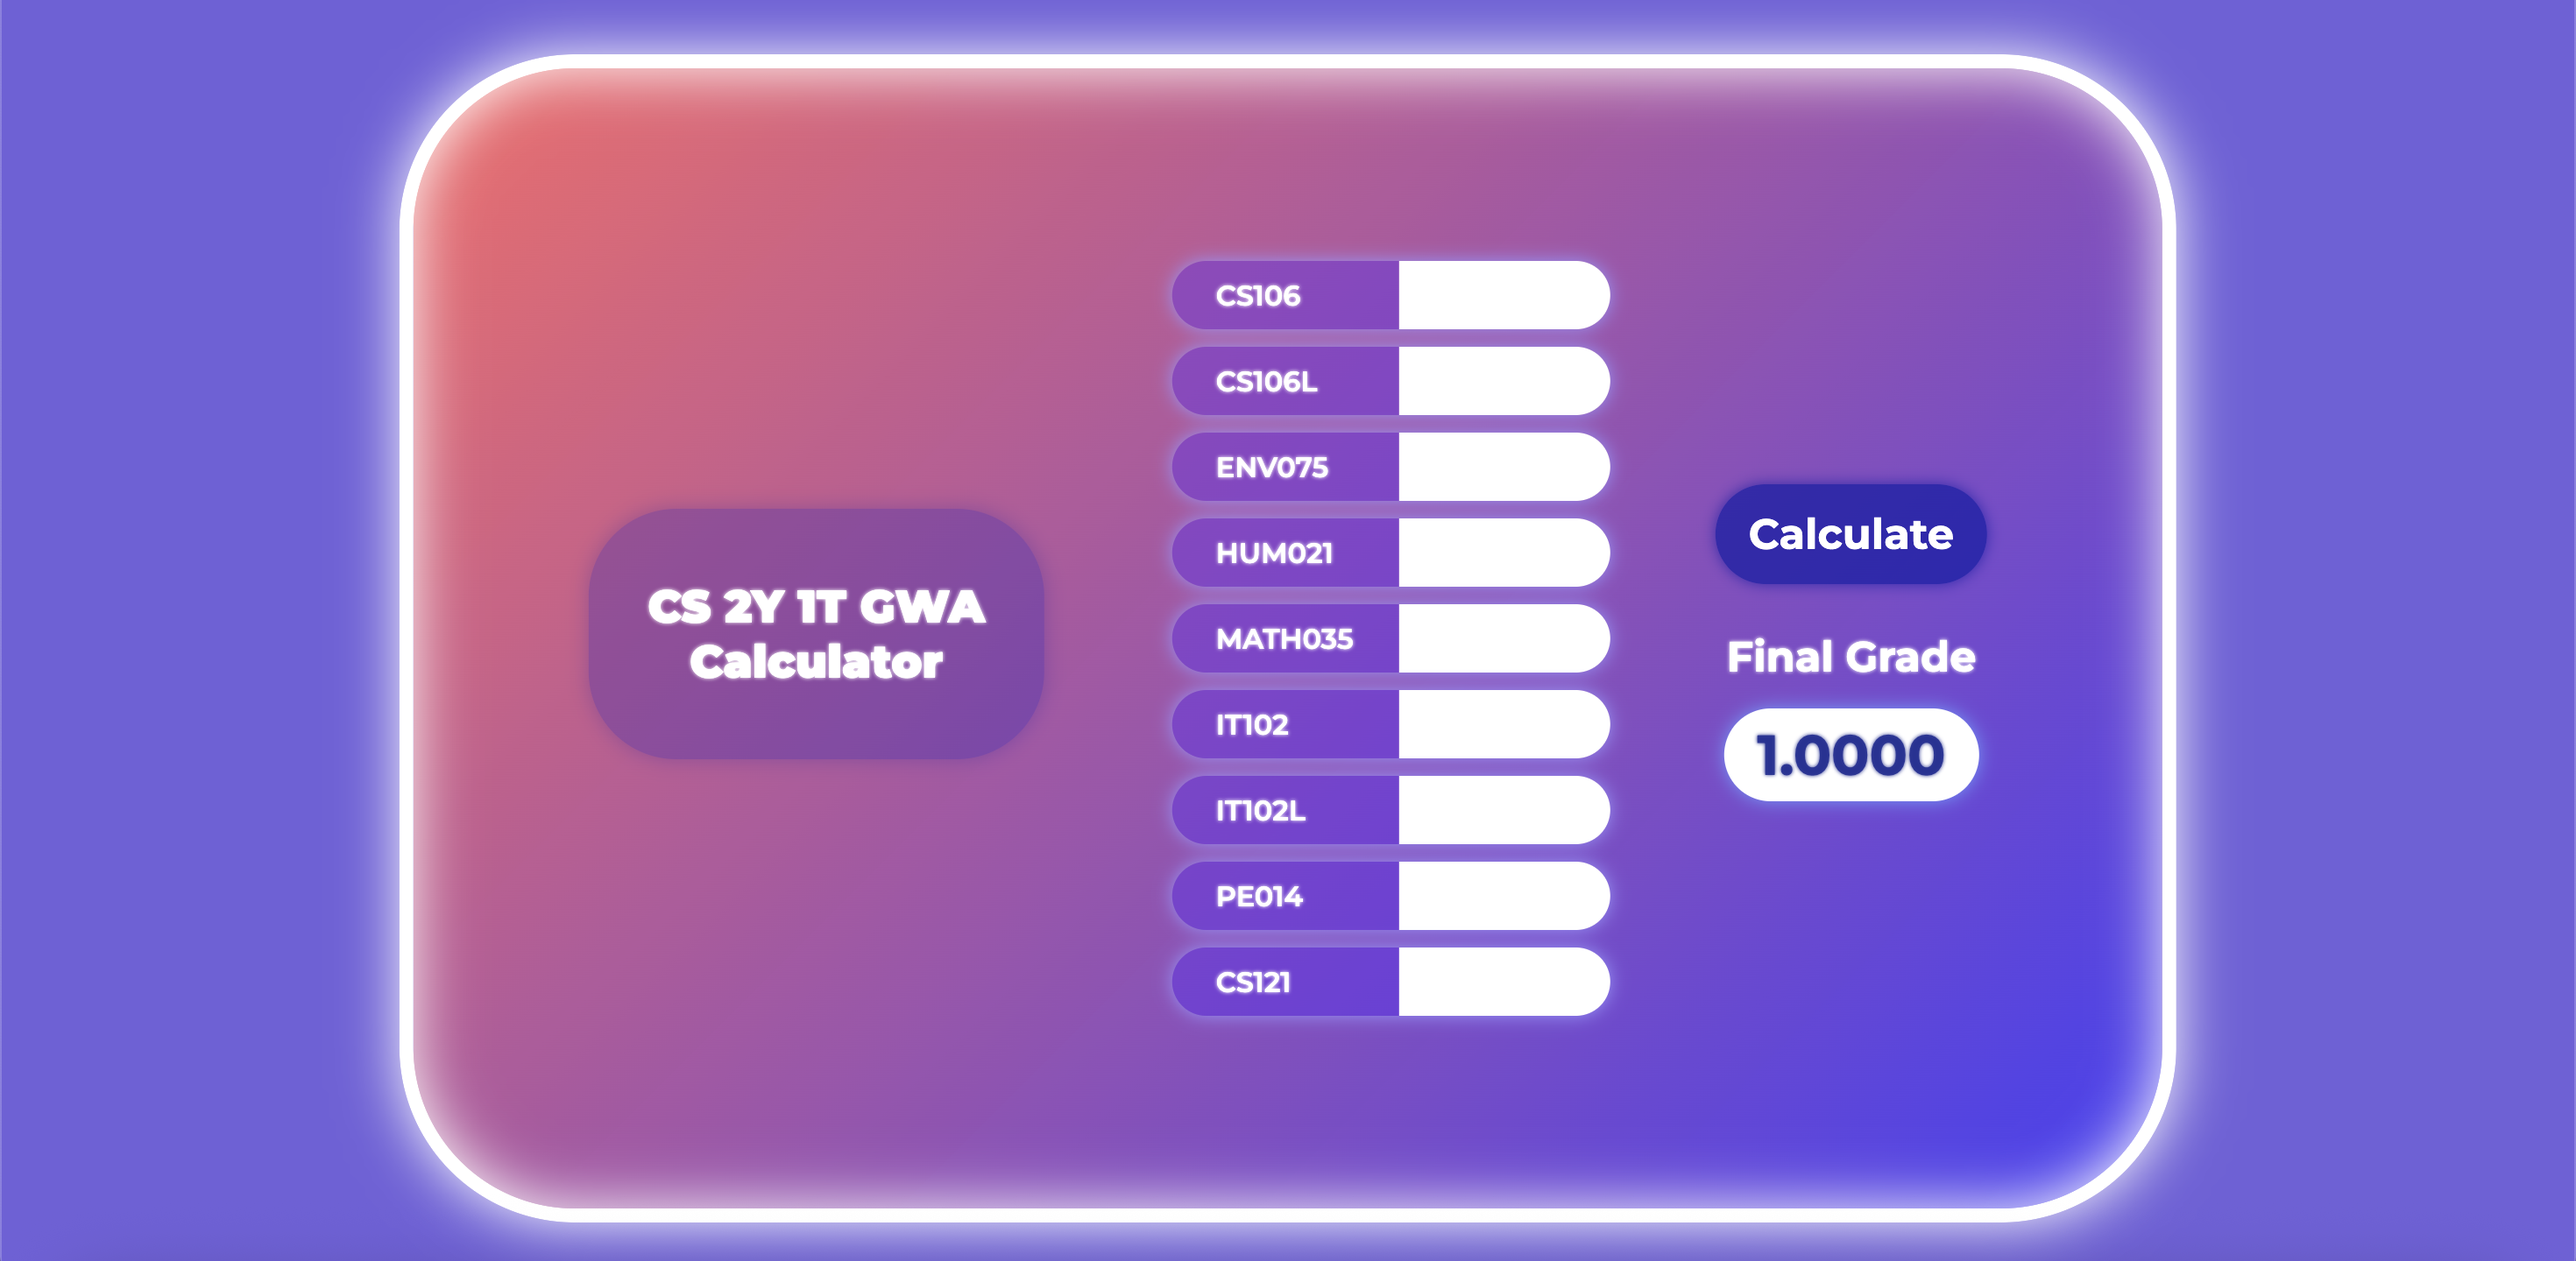
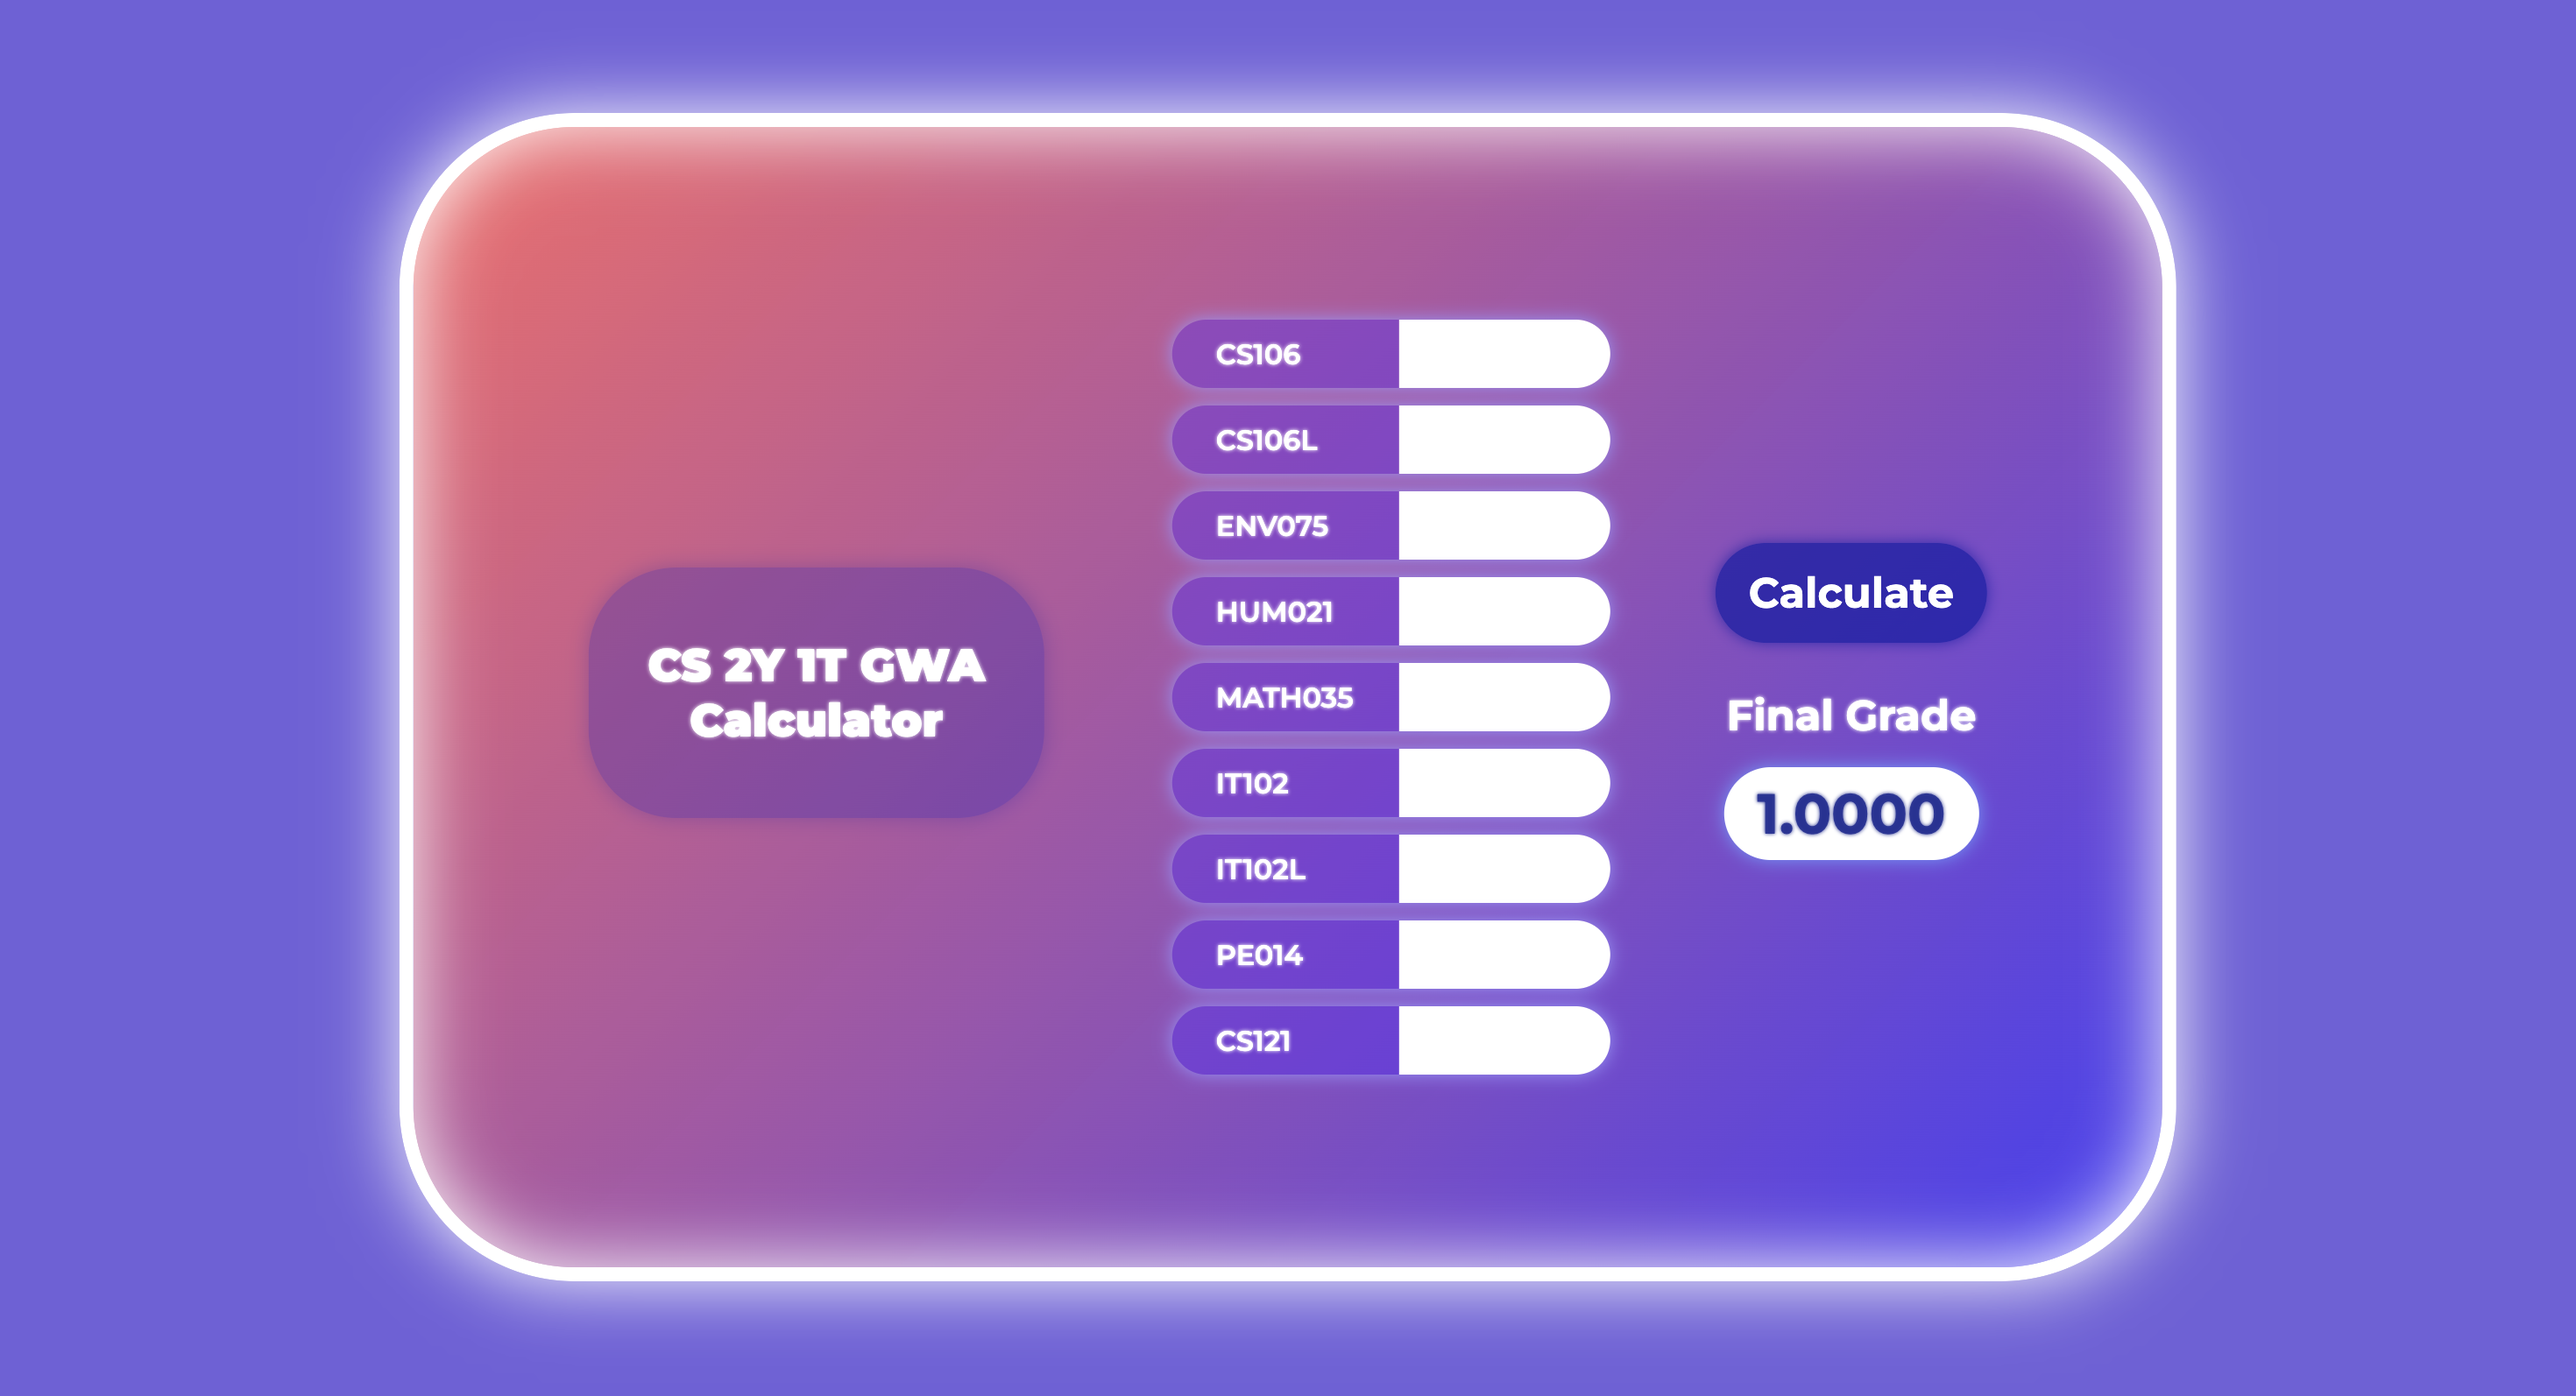
feat: updated previous projects section

diff --git a/index.html b/index.html
@@ -63,10 +63,10 @@
                 <label>Number Guessing Web Game</label>
             </li>    
             <li>
-                <a href="https://joshuafrellte.github.io/My-Music-Picks-Website/albums.html" target="_blank" title="Click to open page!">
-                    <img src="imgs/MusicPicks.png" alt="Music Picks Website">
+                <a href="https://joshuafrellte.github.io/Fetch-Pokemon-with-PokeAPI/" target="_blank" title="Click to open page!">
+                    <img src="imgs/PokeAPI-App.png" alt="PokeAPI Fetch App">
                 </a>   
-                <label>Music Picks Website</label>
+                <label>Fetch Pokemon With PokeAPI</label>
             </li>
         </ul>
     </section>
